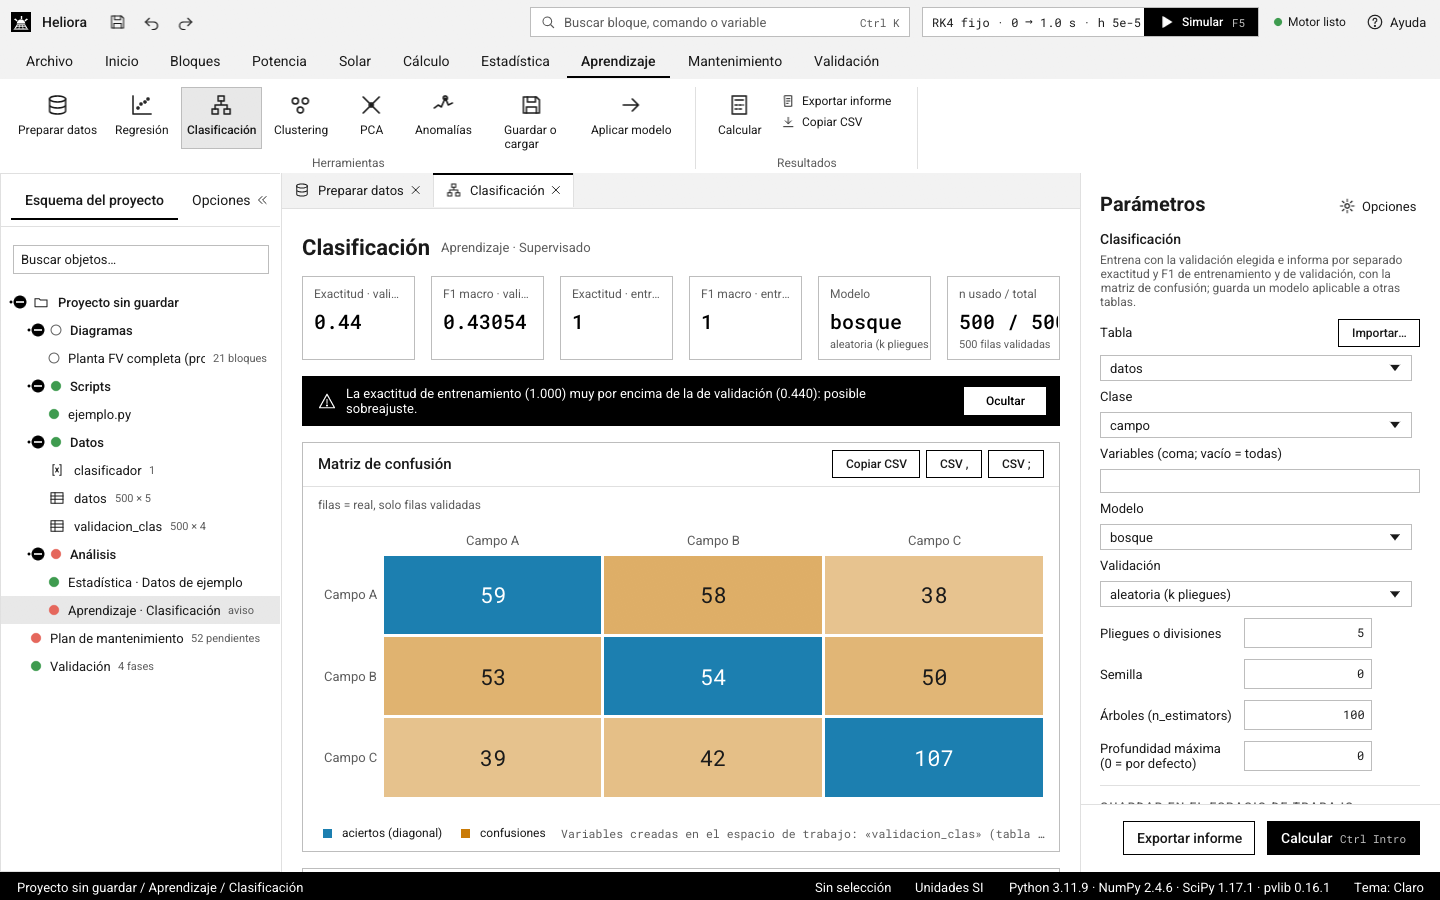
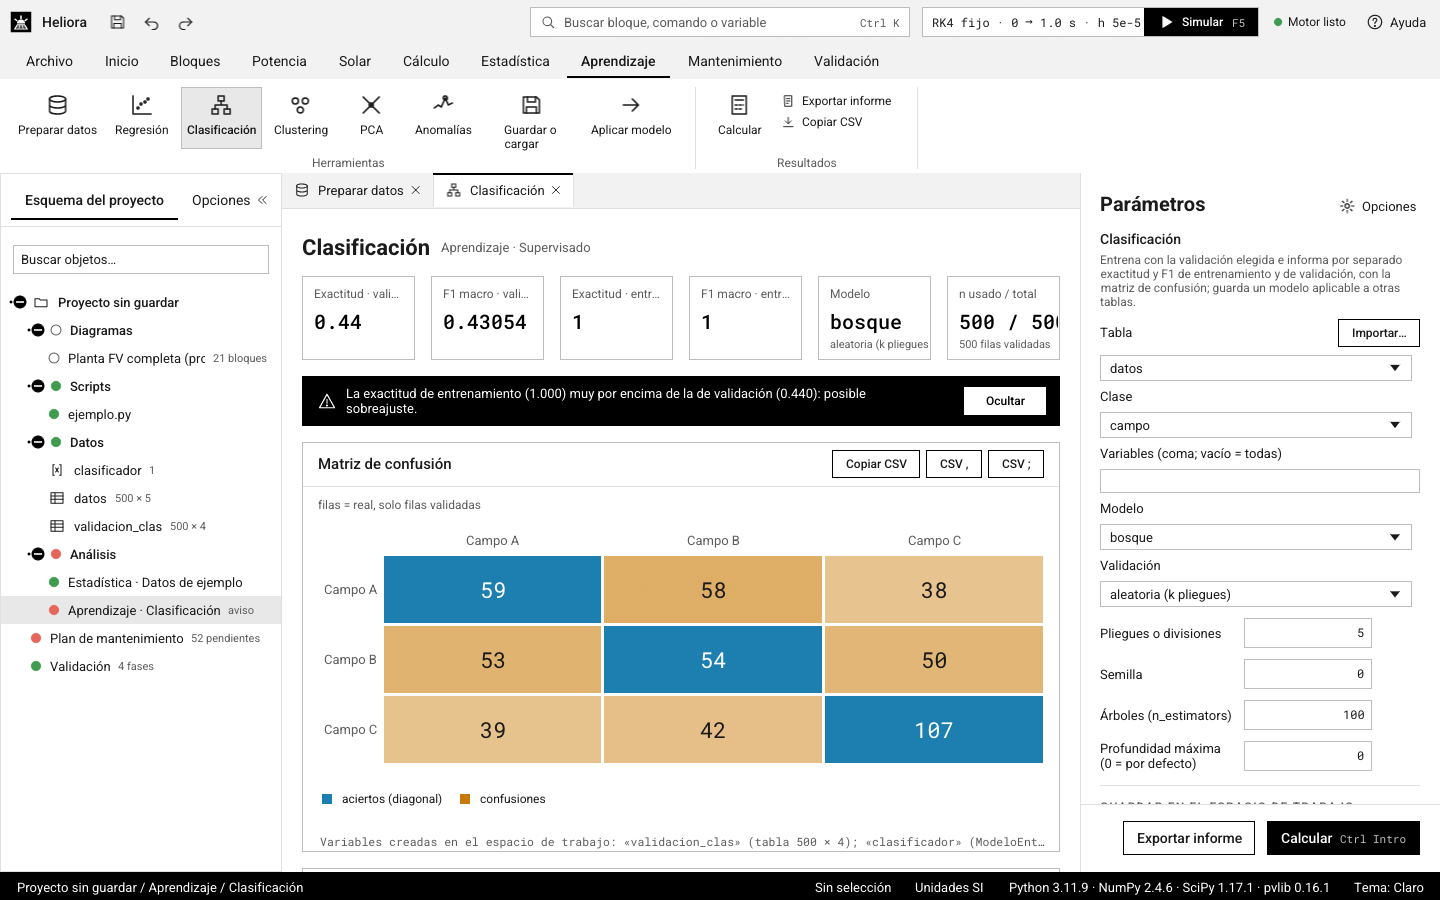
Corrige las diferencias pendientes con arreglo
- Inicio: las cuentas de los chips (vencidas, 30 días, pendientes) salen de las mismas órdenes y filtros que la lista, también con un tipo elegido.
- Inicio: el subtítulo de Planta nombra la tabla con la que se calcularon los KPI.
- Mantenimiento: «Informe O&M» se ve deshabilitado sin plan o con un informe en curso; el grupo de herramientas de análisis se llama «Análisis» y no repite «Herramientas».
- Tablero: marcas del plan de 12 px y de la leyenda de 10 px, como en el diseño; el rombo es un cuadrado girado al 80 %.
- Aprendizaje: las variables creadas van en su propia línea bajo la leyenda de la matriz.
- Figuras 3D: separación entre el título y la ayuda de giro.
- Paneles de parámetros e inspector: ancho mínimo de 360 px, para que el pie con «Exportar informe» y «Calcular» quepa entero.
- Prueba de sumar_dias (cambio de mes, de año y años bisiestos).

Changed region(s): [[0.2188, 0.6533, 0.75, 0.9644], [0.2188, 0.8089, 0.25, 0.84], [0.2188, 0.6533, 0.25, 0.6844]]

diff --git a/src/app.rs b/src/app.rs
@@ -1430,7 +1430,8 @@ impl App {
                 v
             })
             .unwrap_or_default();
-        let subtitulo = if kpis.is_empty() { "Indicadores de la planta a partir de una tabla SCADA." } else { "Indicadores calculados a partir de la tabla scada." };
+        let tabla = self.mantenimiento.analisis.valor_calculado("mt_kpi", "tabla").unwrap_or("").to_string();
+        let subtitulo = if kpis.is_empty() || tabla.is_empty() { "Indicadores de la planta a partir de una tabla SCADA.".to_string() } else { format!("Indicadores calculados a partir de la tabla {tabla}.") };
         tarjeta_portada(
             ui,
             "Planta · datos SCADA",
@@ -1440,7 +1441,7 @@ impl App {
                 }
             },
             |ui| {
-                ui.label(egui::RichText::new(subtitulo).size(13.0).color(tema::p().texto_2));
+                ui.label(egui::RichText::new(&subtitulo).size(13.0).color(tema::p().texto_2));
             },
             |ui| {
                 if kpis.is_empty() {
@@ -1565,7 +1566,6 @@ impl App {
     fn lista_ordenes(&mut self, ui: &mut egui::Ui) {
         let pal = tema::p();
         let hoy = self.mantenimiento.hoy.clone();
-        let t = &self.mantenimiento.tablero;
         let mut ir_plan = false;
         let mut ir_tablero = false;
         let mut abrir: Option<String> = None;
@@ -1579,11 +1579,26 @@ impl App {
             });
         });
         ui.add_space(14.0);
-        let estados = [("vencidas", t["vencidas"].as_u64(), "vencidas"), ("30", t["proximas_30"].as_u64(), "en 30 días"), ("pendientes", t["pendientes"].as_u64(), "pendientes")];
+        // Órdenes abiertas del tipo elegido: de ellas salen a la vez las cuentas de los chips y la lista
+        let limite = sumar_dias(&hoy, 30);
+        let en_estado = |o: &Value, clave: &str| {
+            let f = o["fecha"].as_str().unwrap_or("");
+            match clave {
+                "vencidas" => f < hoy.as_str(),
+                "30" => f >= hoy.as_str() && limite.as_deref().is_none_or(|l| f <= l),
+                _ => true,
+            }
+        };
+        let abiertas: Vec<Value> = self.mantenimiento.estado["ordenes"]
+            .as_array()
+            .map(|a| a.iter().filter(|o| o["estado"].as_str() != Some("cerrada")).filter(|o| self.tipo_inicio.as_deref().is_none_or(|t| tipo_orden(o["nombre"].as_str().unwrap_or("")) == t)).cloned().collect())
+            .unwrap_or_default();
+        let hay_plan = !self.mantenimiento.estado.is_null();
         ui.horizontal(|ui| {
             ui.spacing_mut().item_spacing.x = 8.0;
-            for (clave, n, texto) in estados {
-                if let Some(n) = n {
+            for (clave, texto) in [("vencidas", "vencidas"), ("30", "en 30 días"), ("pendientes", "pendientes")] {
+                if hay_plan {
+                    let n = abiertas.iter().filter(|o| en_estado(o, clave)).count();
                     if ui::chip(ui, &format!("{n} {texto}"), self.filtro_inicio == clave).clicked() {
                         self.filtro_inicio = clave.to_string();
                     }
@@ -1609,20 +1624,7 @@ impl App {
             });
         });
         ui.add_space(10.0);
-        let limite = sumar_dias(&hoy, 30);
-        let mut ordenes: Vec<&Value> = self.mantenimiento.estado["ordenes"]
-            .as_array()
-            .map(|a| a.iter().filter(|o| o["estado"].as_str() != Some("cerrada")).collect())
-            .unwrap_or_default();
-        ordenes.retain(|o| {
-            let f = o["fecha"].as_str().unwrap_or("");
-            let por_estado = match self.filtro_inicio.as_str() {
-                "vencidas" => f < hoy.as_str(),
-                "30" => f >= hoy.as_str() && limite.as_deref().is_none_or(|l| f <= l),
-                _ => true,
-            };
-            por_estado && self.tipo_inicio.as_deref().is_none_or(|t| tipo_orden(o["nombre"].as_str().unwrap_or("")) == t)
-        });
+        let mut ordenes: Vec<&Value> = abiertas.iter().filter(|o| en_estado(o, &self.filtro_inicio)).collect();
         if self.orden_inicio_equipo {
             ordenes.sort_by(|a, b| a["equipo"].as_str().cmp(&b["equipo"].as_str()).then(a["fecha"].as_str().cmp(&b["fecha"].as_str())));
         } else {
@@ -2185,6 +2187,15 @@ fn dibujar_vista_previa(p: egui::Painter, r: Rect, v: &bloques::VistaPrevia) {
 #[cfg(test)]
 mod pruebas {
     use super::*;
+
+    #[test]
+    fn sumar_dias_cruza_meses_anios_y_bisiestos() {
+        assert_eq!(sumar_dias("2026-11-26", 30).as_deref(), Some("2026-12-26"));
+        assert_eq!(sumar_dias("2026-12-15", 30).as_deref(), Some("2027-01-14"));
+        assert_eq!(sumar_dias("2028-02-28", 1).as_deref(), Some("2028-02-29"));
+        assert_eq!(sumar_dias("2027-02-28", 1).as_deref(), Some("2027-03-01"));
+        assert_eq!(sumar_dias("fecha", 1), None);
+    }
 
     #[test]
     fn la_escritura_atomica_reemplaza_y_no_deja_temporales() {

diff --git a/src/herramientas.rs b/src/herramientas.rs
@@ -461,7 +461,7 @@ impl Pagina {
         let mut calcular = atajo && !self.ocupada();
         let lateral = ui.available_width() >= ui::ANCHO_APILAR;
         if lateral {
-            egui::SidePanel::right(egui::Id::new(("parametros_lateral", &self.modulo))).default_width(360.0).width_range(280.0..=720.0).resizable(true).frame(egui::Frame::new().fill(pal.panel)).show_inside(ui, |ui| {
+            egui::SidePanel::right(egui::Id::new(("parametros_lateral", &self.modulo))).default_width(360.0).width_range(360.0..=720.0).resizable(true).frame(egui::Frame::new().fill(pal.panel)).show_inside(ui, |ui| {
                 let r = ui.max_rect();
                 ui.painter().line_segment([r.left_top(), r.left_bottom()], Stroke::new(1.0_f32, pal.borde));
                 self.panel_derecho(ui, h, motor, c, inf.as_ref().zip(vista.as_ref()), &mut calcular);
@@ -769,7 +769,8 @@ impl Pagina {
         if self.seleccion.is_none() {
             self.seleccion = propias.first().map(|h| h.id.clone());
         }
-        ui::grupo_cinta(ui, "Herramientas", |ui| {
+        let grupo = if self.modulo == "mantenimiento" { "Análisis" } else { "Herramientas" };
+        ui::grupo_cinta(ui, grupo, |ui| {
             for h in &propias {
                 let (icono, corto) = presentacion(&h.id, &h.titulo);
                 if ui::boton_cinta(ui, icono, &corto, self.seleccion.as_deref() == Some(h.id.as_str())).on_hover_text(&h.titulo).clicked() {
@@ -821,6 +822,11 @@ impl Pagina {
                 }
             })
             .collect()
+    }
+
+    /// Valor de un parámetro con el que se calculó el último informe de una herramienta.
+    pub fn valor_calculado(&self, id: &str, param: &str) -> Option<&str> {
+        self.calculados.get(id)?.get(param).map(String::as_str)
     }
 
     /// Herramienta abierta.
@@ -1431,7 +1437,7 @@ fn dibujar_confusion(ui: &mut egui::Ui, inf: &Informe, v: &Vista, i: usize) {
             if !nota.is_empty() {
                 ui.label(egui::RichText::new(nota).size(12.0).color(pal.texto_2));
             }
-            let alto = (ui.available_height() - 44.0).max(120.0);
+            let alto = (ui.available_height() - if v.pie.is_empty() { 44.0 } else { 78.0 }).max(120.0);
             match mapa_confusion(col, fil) {
                 Some(m) => m.mostrar(ui, alto),
                 None => tabla(ui, col, fil),
@@ -1441,8 +1447,8 @@ fn dibujar_confusion(ui: &mut egui::Ui, inf: &Informe, v: &Vista, i: usize) {
                 ui.spacing_mut().item_spacing.x = 14.0;
                 ui::leyenda(ui, pal.series[1], "aciertos (diagonal)", ui::Muestra::Cuadrado);
                 ui::leyenda(ui, pal.series[0], "confusiones", ui::Muestra::Cuadrado);
-                pie(ui, v);
             });
+            ui.horizontal(|ui| pie(ui, v));
         },
     );
 }

diff --git a/src/ui.rs b/src/ui.rs
@@ -739,6 +739,8 @@ pub enum Muestra {
 pub fn dibujar_muestra(pt: &egui::Painter, r: Rect, color: Color32, m: Muestra) {
     let pal = tema::p();
     let c = r.center();
+    // Las marcas cuadradas ocupan el rectángulo menos 1 px por lado, entre 6 y 12 px
+    let lado = (r.width().min(r.height()) - 2.0).clamp(6.0, 12.0);
     match m {
         Muestra::Linea => {
             pt.line_segment([Pos2::new(r.left(), c.y), Pos2::new(r.right(), c.y)], Stroke::new(2.0_f32, color));
@@ -756,13 +758,14 @@ pub fn dibujar_muestra(pt: &egui::Painter, r: Rect, color: Color32, m: Muestra) 
             }
         }
         Muestra::Cuadrado => {
-            pt.rect_filled(Rect::from_center_size(c, Vec2::splat(9.0)), 0.0, color);
+            pt.rect_filled(Rect::from_center_size(c, Vec2::splat(lado)), 0.0, color);
         }
         Muestra::CuadradoContorno => {
-            pt.rect(Rect::from_center_size(c, Vec2::splat(9.0)), 0.0, color.gamma_multiply(0.35), Stroke::new(1.5_f32, color), StrokeKind::Inside);
+            pt.rect(Rect::from_center_size(c, Vec2::splat(lado)), 0.0, color.gamma_multiply(0.35), Stroke::new(1.5_f32, color), StrokeKind::Inside);
         }
         Muestra::Rombo => {
-            let d = 5.5;
+            // Un cuadrado del mismo lado girado 45° y reducido al 80 %
+            let d = lado * 0.8 * std::f32::consts::FRAC_1_SQRT_2;
             pt.add(egui::Shape::convex_polygon(vec![c + Vec2::new(0.0, -d), c + Vec2::new(d, 0.0), c + Vec2::new(0.0, d), c + Vec2::new(-d, 0.0)], color, Stroke::NONE));
         }
     }
@@ -773,7 +776,7 @@ pub fn leyenda(ui: &mut Ui, color: Color32, texto: &str, m: Muestra) {
     let pal = tema::p();
     ui.horizontal(|ui| {
         ui.spacing_mut().item_spacing.x = 6.0;
-        let (r, _) = ui.allocate_exact_size(Vec2::new(18.0, 14.0), Sense::hover());
+        let (r, _) = ui.allocate_exact_size(Vec2::new(18.0, 12.0), Sense::hover());
         dibujar_muestra(ui.painter(), r, color, m);
         ui.label(egui::RichText::new(texto).size(12.0).color(pal.texto));
     });

diff --git a/src/plan.rs b/src/plan.rs
@@ -408,8 +408,8 @@ impl Mantenimiento {
             }
         });
         ui::grupo_cinta(ui, "Informe", |ui| {
-            let r = ui::boton_cinta(ui, Icono::Informe, "Informe O&M", false).on_hover_text("Indicadores, hallazgos, órdenes y calendario de 30 días en HTML y PDF");
-            if r.clicked() && informe_libre {
+            let r = ui.add_enabled_ui(informe_libre, |ui| ui::boton_cinta(ui, Icono::Informe, "Informe O&M", false)).inner.on_hover_text("Indicadores, hallazgos, órdenes y calendario de 30 días en HTML y PDF");
+            if r.clicked() {
                 self.cinta_pendiente = Some(AccionCinta::Informe);
             }
         });
@@ -672,7 +672,7 @@ impl Mantenimiento {
         let ordenes: Vec<Value> = self.estado["ordenes"].as_array().cloned().unwrap_or_default();
         if plan_abierto {
             if matches!(self.pestana, Pestana::Tablero | Pestana::Ordenes) {
-                egui::SidePanel::right("panel_mant").default_width(360.0).width_range(280.0..=720.0).resizable(true).frame(egui::Frame::new().fill(pal.panel).stroke(egui::Stroke::new(1.0_f32, pal.linea))).show_inside(ui, |ui| {
+                egui::SidePanel::right("panel_mant").default_width(360.0).width_range(360.0..=720.0).resizable(true).frame(egui::Frame::new().fill(pal.panel).stroke(egui::Stroke::new(1.0_f32, pal.linea))).show_inside(ui, |ui| {
                     ui.add_enabled_ui(!ocupado, |ui| {
                         if self.pestana == Pestana::Tablero {
                             self.panel_calendario(ui, &ordenes, &mut acciones);

diff --git a/src/bloques.rs b/src/bloques.rs
@@ -1190,7 +1190,7 @@ impl Editor {
             ui.painter().line_segment([r.right_top(), r.right_bottom()], Stroke::new(1.0_f32, pal.linea));
             self.panel_libreria(ui);
         });
-        egui::SidePanel::right("panel_inspector").default_width(360.0).width_range(280.0..=720.0).resizable(true).frame(egui::Frame::new().fill(pal.panel)).show_inside(ui, |ui| {
+        egui::SidePanel::right("panel_inspector").default_width(360.0).width_range(360.0..=720.0).resizable(true).frame(egui::Frame::new().fill(pal.panel)).show_inside(ui, |ui| {
             let r = ui.max_rect();
             ui.painter().line_segment([r.left_top(), r.left_bottom()], Stroke::new(1.0_f32, pal.linea));
             egui::TopBottomPanel::bottom("panel_diagnostico").default_height(140.0).height_range(80.0..=480.0).resizable(true).frame(egui::Frame::new().fill(pal.panel)).show_inside(ui, |ui| {

diff --git a/src/grafica.rs b/src/grafica.rs
@@ -885,6 +885,7 @@ impl Fig3D {
     fn dibujar(&mut self, ui: &mut egui::Ui, alto: f32) -> (Option<Accion>, Rect) {
         let mut accion = None;
         ui.horizontal(|ui| {
+            ui.spacing_mut().item_spacing.x = 10.0;
             ui.label(egui::RichText::new(&self.titulo).strong());
             ui.label(egui::RichText::new("arrastra para girar · rueda para acercar").small().color(tema::p().texto_2));
             ui.with_layout(egui::Layout::right_to_left(egui::Align::Center), |ui| {
